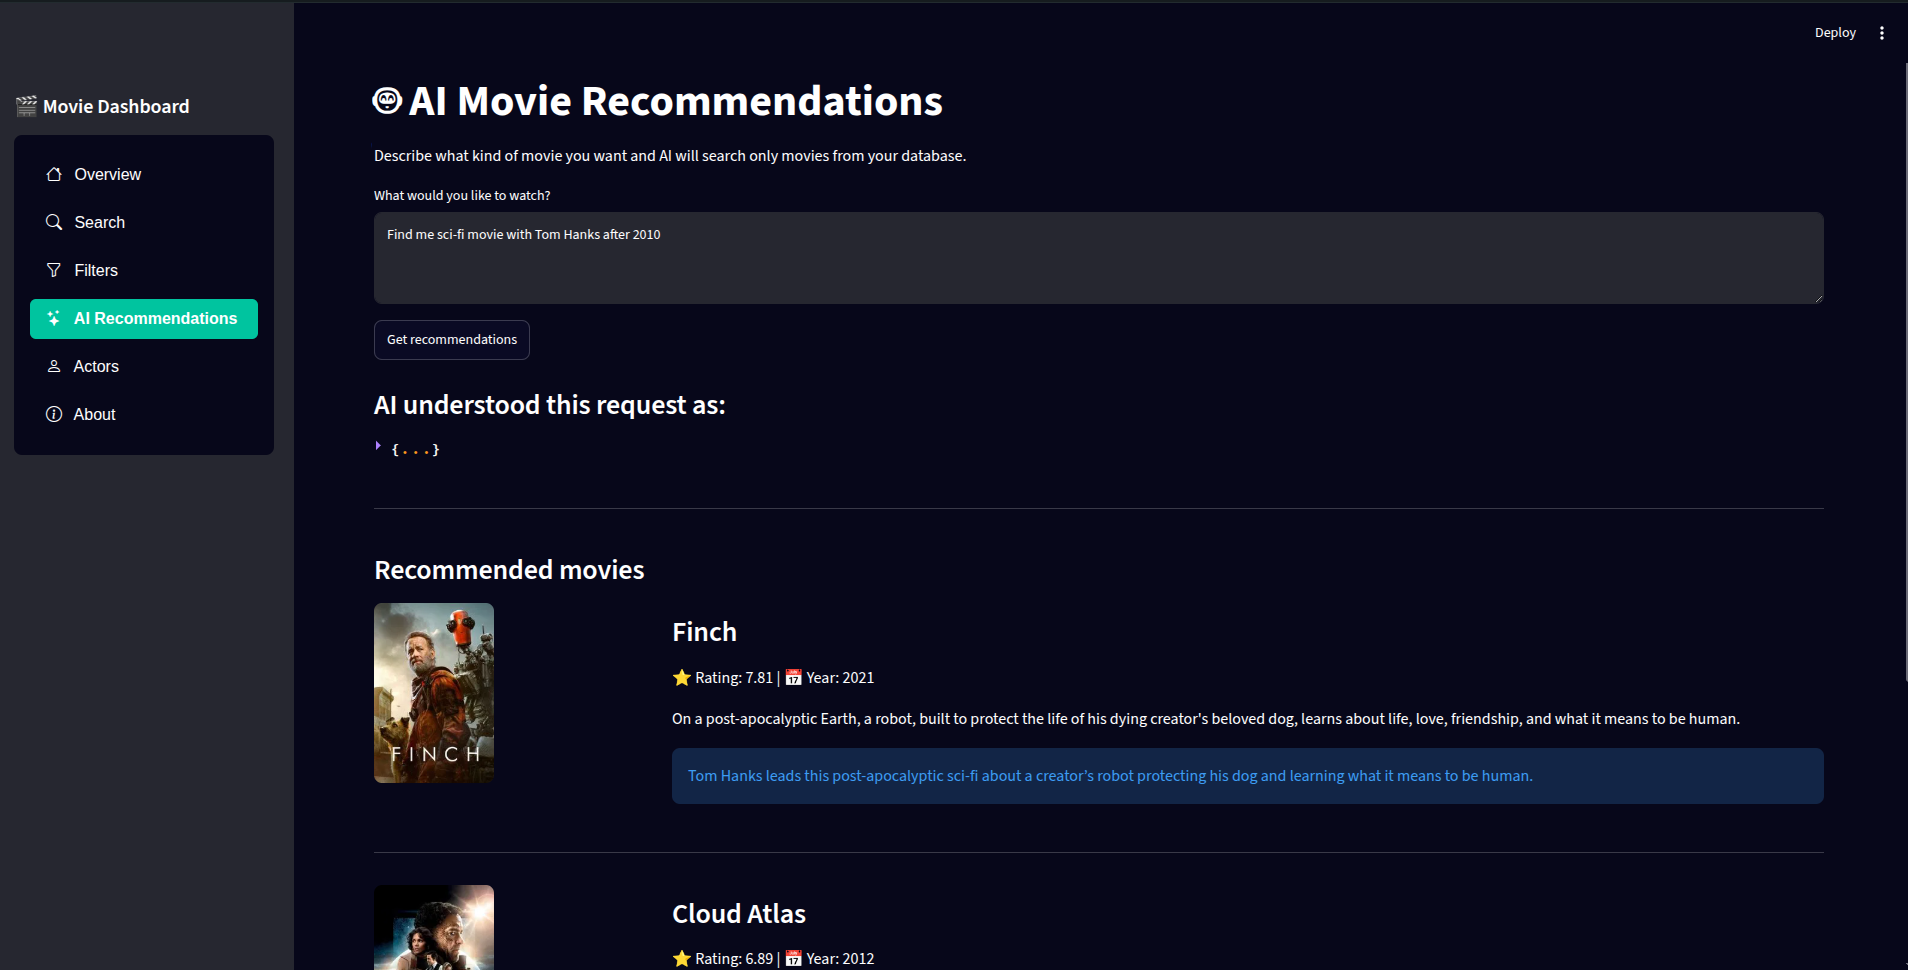
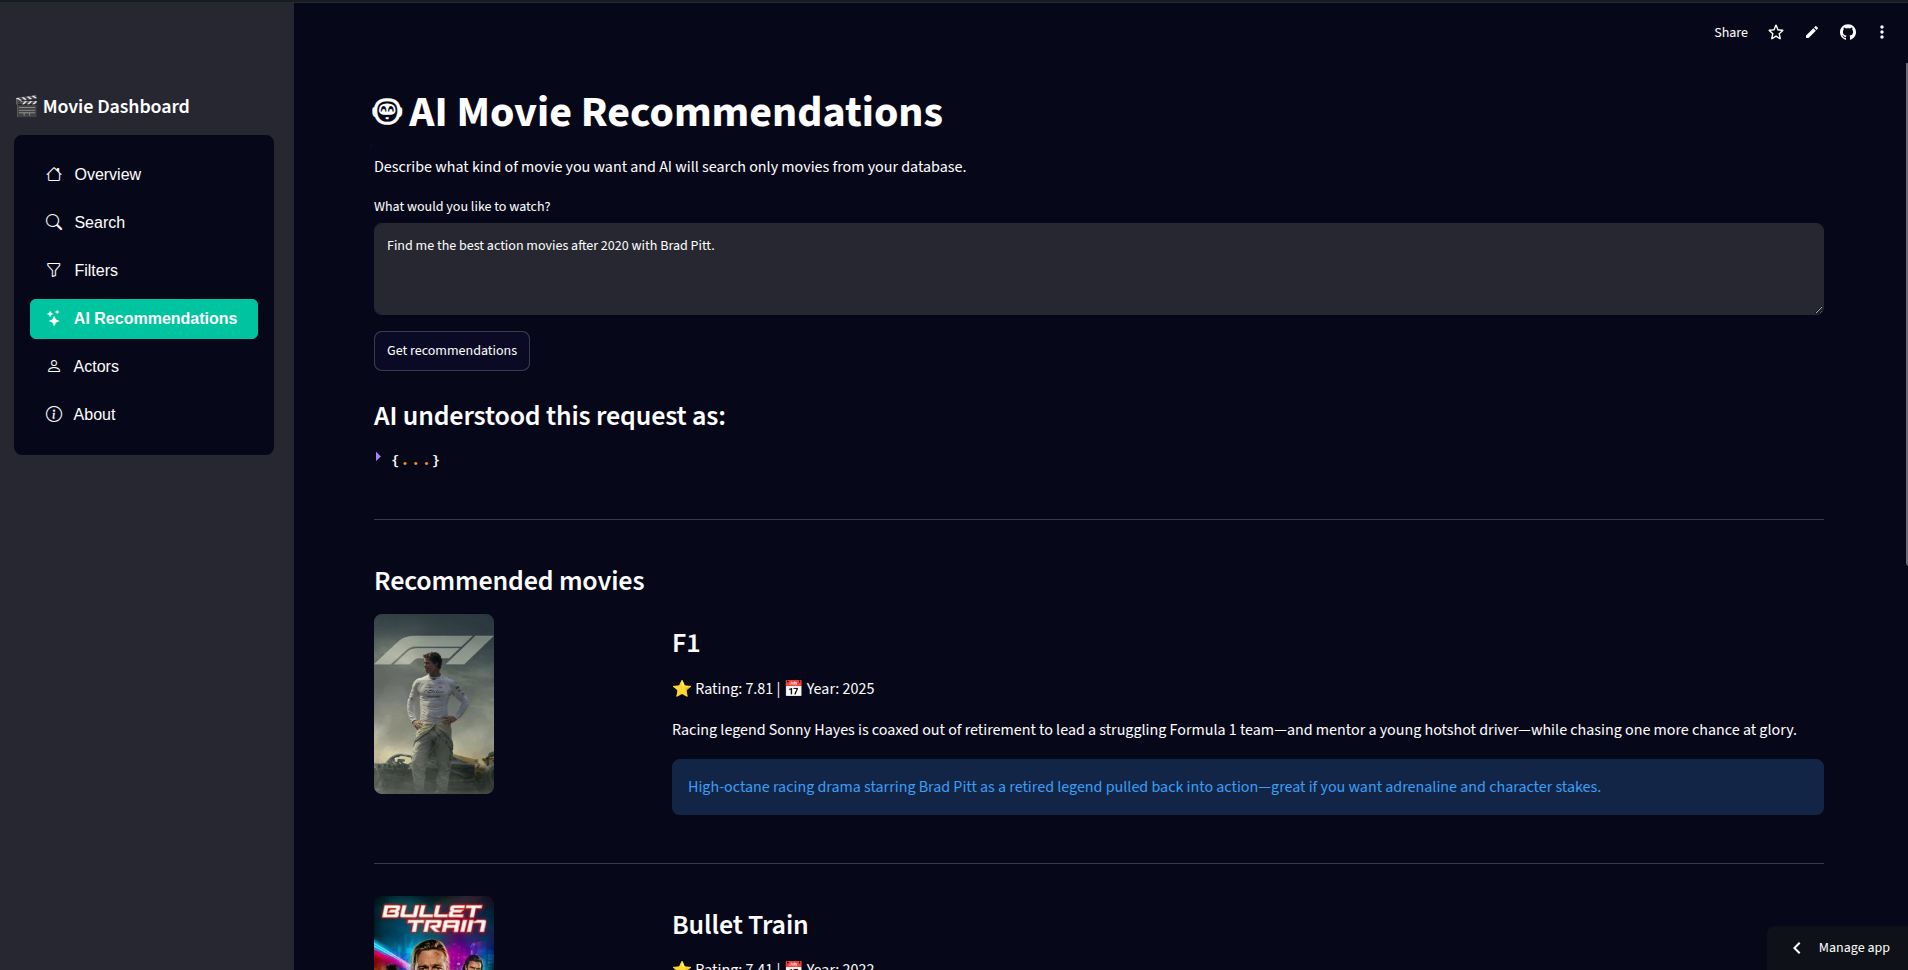
docs: add architecture section

diff --git a/README.md b/README.md
@@ -216,6 +216,9 @@ Instead of allowing AI to generate random movie suggestions, every recommendatio
 Find me the best action movies after 2020 with Brad Pitt.
 ```
 
+<p align="center">
+  <img src="docs/screenshots/ai-recommendations.png" alt="AI Recommendation Flow" width="100%">
+</p>
 ↓
 
 **Extracted filters**
